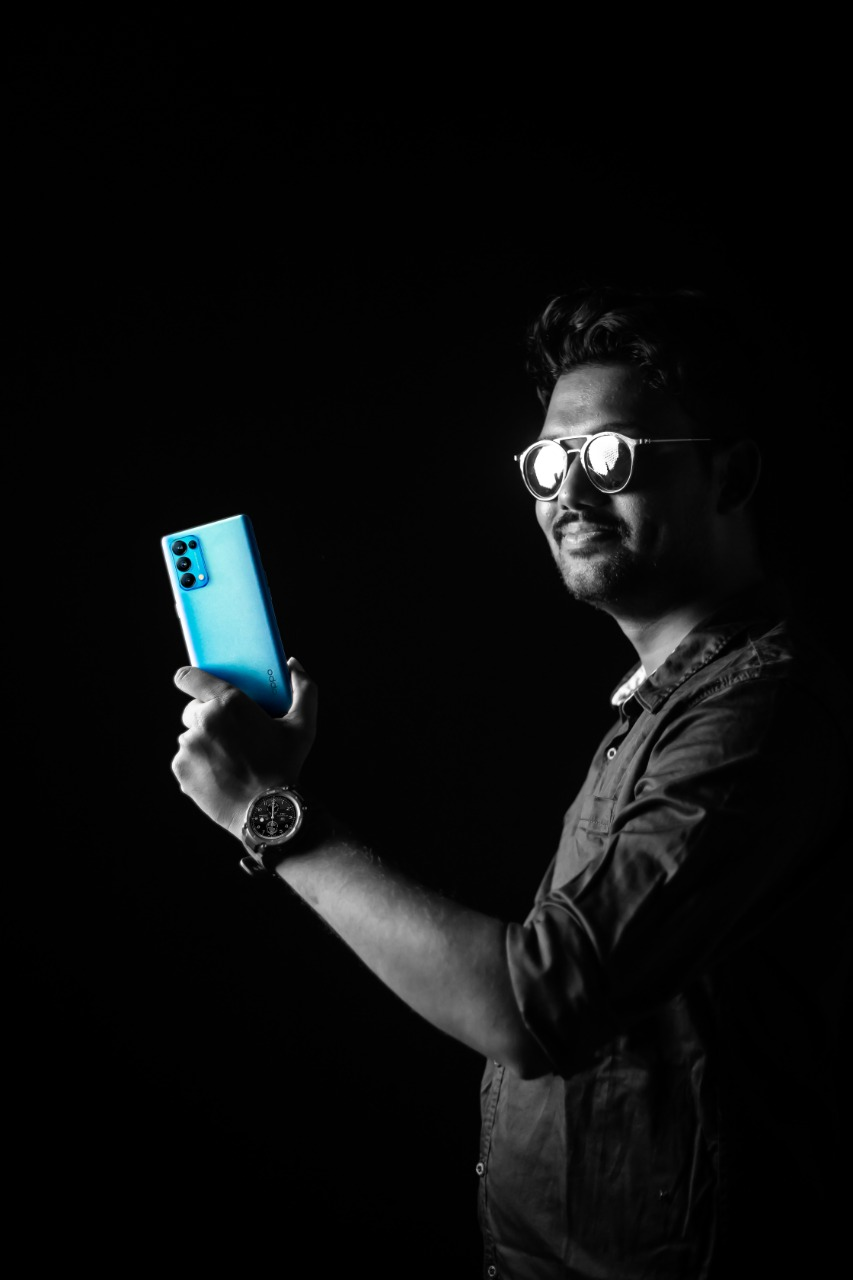
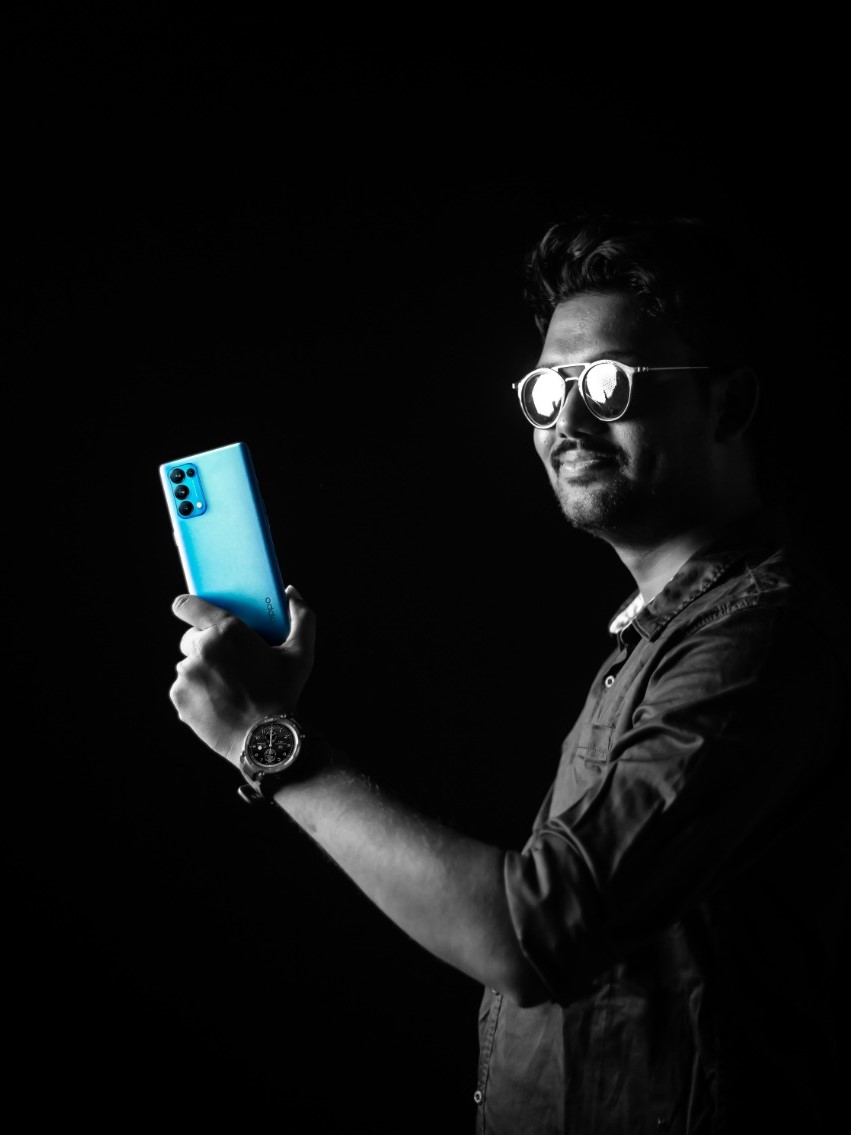
Elan Photography Homepage

Changed region(s): [[0.1833, 0.37, 0.886, 1.0], [0.5805, 0.2159, 0.7638, 0.4626], [0.7027, 0.8326, 0.7638, 0.8943]]

diff --git a/index.html b/index.html
@@ -38,7 +38,7 @@
             </label>
 
             <div class="top-logodiv">
-                <img src="LOGO1.png" class="topnav-logo">
+                <img src="LOGO1.jpeg" class="topnav-logo">
             </div>
 
             <div class="top-linksdiv" id="topLinksDiv">
@@ -73,7 +73,7 @@
         <div class="top-bgdiv">
 
             <div class="top-bgimgdiv">
-                <img src="elan.jpg" class="top-bgimg">
+                <img src="elan.jpeg" class="top-bgimg">
             </div>
 
             <div class="top-bgtxtdiv">
@@ -106,7 +106,7 @@
             <div class="rw-categsmain">
 
                 <div class="rw-categdiv">
-                    <img src="images/leavesatlens.jpg" class="img-rwcateg">
+                    <img src="images/leavesatlens.jpeg" class="img-rwcateg">
                     <div class="txt-rwcategdiv">
                         <h1 class="title-rwcateg">LEAVES AT LENS</h1>
                         <p class="subhead-rwcateg">FASHION PHOTOGRAPHY</p>
@@ -114,7 +114,7 @@
                 </div>
                 
                 <div class="rw-categdiv">
-                    <img src="images/watertobeshuttered.jpg" class="img-rwcateg">
+                    <img src="images/watertobeshuttered.jpeg" class="img-rwcateg">
                     <div class="txt-rwcategdiv">
                         <h1 class="title-rwcateg">WATER TO BE SHUTTERED</h1>
                         <p class="subhead-rwcateg">NATURE PHOTOGRAPHY</p>
@@ -122,7 +122,7 @@
                 </div>
                 
                 <div class="rw-categdiv">
-                    <img src="images/eyesinthedark.jpg" class="img-rwcateg">
+                    <img src="images/eyesinthedark.jpeg" class="img-rwcateg">
                     <div class="txt-rwcategdiv">
                         <h1 class="title-rwcateg">EYES IN THE DARK</h1>
                         <p class="subhead-rwcateg">DARK PHOTOGRAPHY</p>
@@ -134,7 +134,7 @@
         </div>
 
 
-        <div class="gudphoto-maindiv" style="background-image: url('images/bg.jpg');">
+        <div class="gudphoto-maindiv" style="background-image: url('images/bg.jpeg');">
 
             <div class="gp-titlediv">
                 <h1 class="gp-title">WHAT CAN A GOOD PHOTOGRAPH DO FOR YOU ?</h1>
@@ -159,19 +159,19 @@
             <div class="planps-categ-maindiv">
 
                 <div class="pps-categdiv">
-                    <img src="images/naturephotography1.jpg" class="pps-categimg">
+                    <img src="images/watertobeshuttered.jpeg" class="pps-categimg">
                     <h1 class="pps-categtitle">NATURE PHOTOGRAPHY</h1>
                     <a href="#" class="pps-categcta">PLAN A PHOTOSHOOT</a>
                 </div>
                 
                 <div class="pps-categdiv">
-                    <img src="images/fashionphotography.jpg" class="pps-categimg">
+                    <img src="images/fashionphotography.jpeg" class="pps-categimg">
                     <h1 class="pps-categtitle">FASHION PHOTOGRAPHY</h1>
                     <a href="#" class="pps-categcta">PLAN A PHOTOSHOOT</a>
                 </div>
 
                 <div class="pps-categdiv">
-                    <img src="images/potraitphotography.jpg" class="pps-categimg">
+                    <img src="images/potraitphotography.jpeg" class="pps-categimg">
                     <h1 class="pps-categtitle">OTHER</h1>
                     <a href="#" class="pps-categcta">PLAN A PHOTOSHOOT</a>
                 </div>
@@ -184,7 +184,7 @@
         <div class="abtme-maindiv">
 
             <div class="abtme-imgdiv">
-                <img src="elan2.jpg" class="abtme-img">
+                <img src="elan2.jpeg" class="abtme-img">
             </div>
 
             <div class="abtme-txtdiv">
@@ -233,7 +233,7 @@
             <div class="ra-categsmaindiv">
 
                 <div class="ra-onemaindiv">
-                    <img src="images/hatehills.jpg" class="ra-oneimg">
+                    <img src="images/hatehills1.jpeg" class="ra-oneimg">
                     <div class="ra-onetxtdiv">
                         <h1 class="ra-onetitle">HATE GOING TO HILLS ?</h1>
                         <div class="ra-onelocdiv">
@@ -247,7 +247,7 @@
                 <div class="ra-twomaindiv">
 
                     <div class="ra-twodiv">
-                        <img src="images/sunsetsad.jpg" class="ra-twoimg">
+                        <img src="images/sunsetsad.jpeg" class="ra-twoimg">
                         <div class="ra-twotxtdiv">
                             <h1 class="ra-twotitle">SUNSET SEEMS SAD</h1>
                             <div class="ra-twolocdiv">
@@ -259,7 +259,7 @@
                     </div>
                     
                     <div class="ra-twodiv" style="margin-top: 25px;">
-                        <img src="images/beachbuggy.jpg" class="ra-twoimg">
+                        <img src="images/beachbuggy.jpeg" class="ra-twoimg">
                         <div class="ra-twotxtdiv">
                             <h1 class="ra-twotitle">BEACH BUGGY</h1>
                             <div class="ra-twolocdiv">
@@ -271,7 +271,7 @@
                     </div>
 
                     <div class="ra-twodiv" style="margin-top: 25px;">
-                        <img src="images/touchingtrees.jpg" class="ra-twoimg">
+                        <img src="images/touchingtrees.jpeg" class="ra-twoimg">
                         <div class="ra-twotxtdiv">
                             <h1 class="ra-twotitle">TOUCHING THE TREES</h1>
                             <div class="ra-twolocdiv">
@@ -292,7 +292,7 @@
         <div class="end-maindiv">
 
             <div class="end-creatordiv">
-                <img src="images/madeby.jpg" class="end-creatorimg">
+                <img src="images/madeby.jpeg" class="end-creatorimg">
                 <h1 class="end-creatortitle">THIS WEBSITE IS MADE<br> BY <b>ASWANTH PRABU</b></h1>
                 <a href="" class="end-creatorlink">@alone._artist7</a>
             </div>

diff --git a/css/recentarticles.css b/css/recentarticles.css
@@ -63,7 +63,7 @@
 
 .ra-oneimg {
     height: 300px;
-    width: 450px;
+    width: 400px;
 }
 
 .ra-onetxtdiv {
@@ -116,8 +116,8 @@
     }
 
     .ra-oneimg {
-        height: 200px;
-        width: 275px;
+        height: 210px;
+        width: 280px;
     }
 }
 

diff --git a/css/topbg.css b/css/topbg.css
@@ -27,8 +27,8 @@
 }
 
 .top-bgimg {
-    height: 450px;
-    width: 375px;
+    height: 440px;
+    width: 330px;
     justify-content: center;
     filter: contrast(87%);
     position: relative;

diff --git a/css/abtme.css b/css/abtme.css
@@ -24,8 +24,8 @@
 }
 
 .abtme-img {
-    height: 450px;
-    width: 375px;
+    height: 440px;
+    width: 330px;
 }
 
 @media only screen and (max-width: 1124px) {

diff --git a/css/planps.css b/css/planps.css
@@ -77,8 +77,8 @@
 }
 
 .pps-categimg {
-    height: 300px;
-    width: 230px;
+    height: 320px;
+    width: 240px;
 }
 
 .pps-categtitle {

diff --git a/css/recentworks.css b/css/recentworks.css
@@ -76,8 +76,8 @@
 }
 
 .img-rwcateg {
-    height: 325px;
-    width: 260px;
+    height: 320px;
+    width: 240px;
 }
 
 .txt-rwcategdiv {
